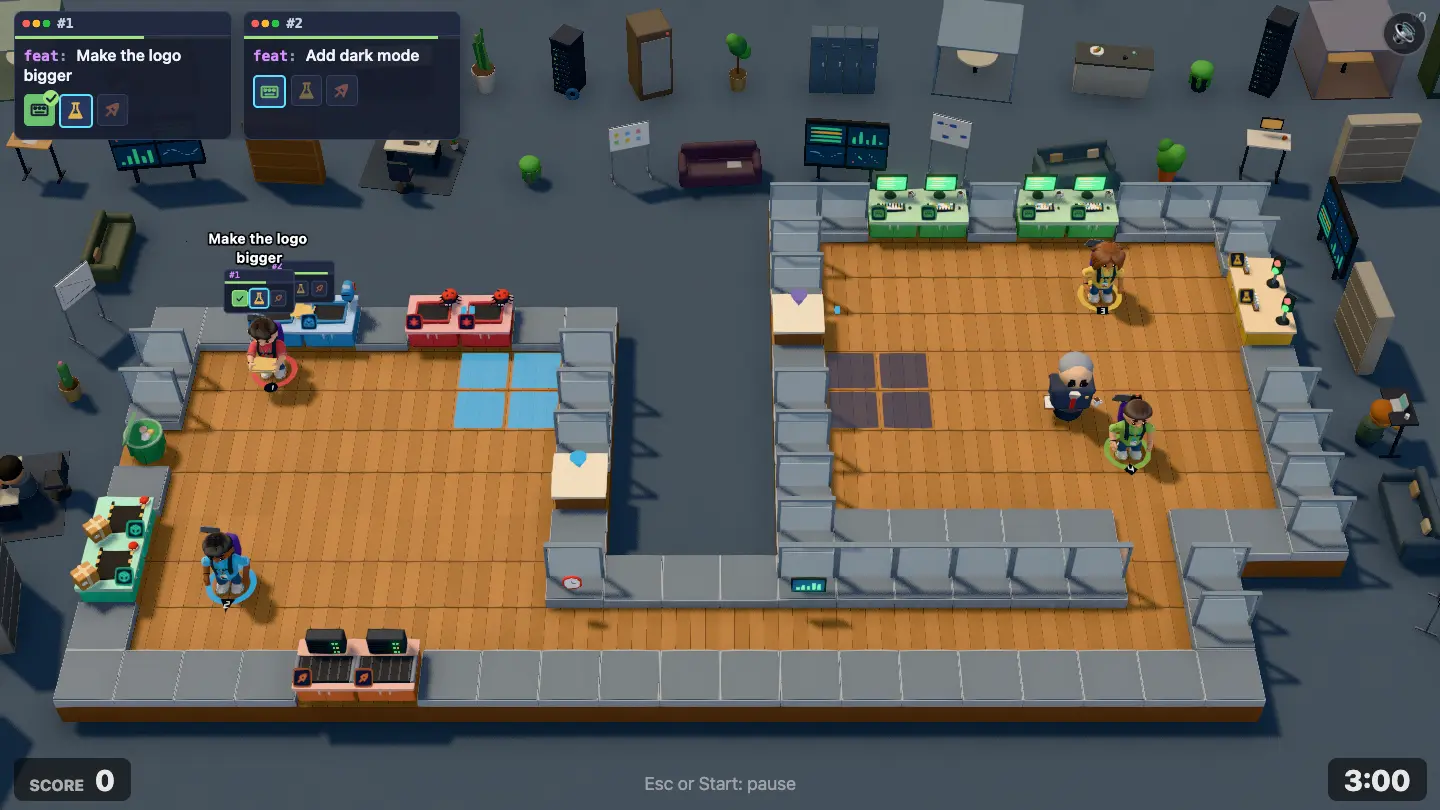
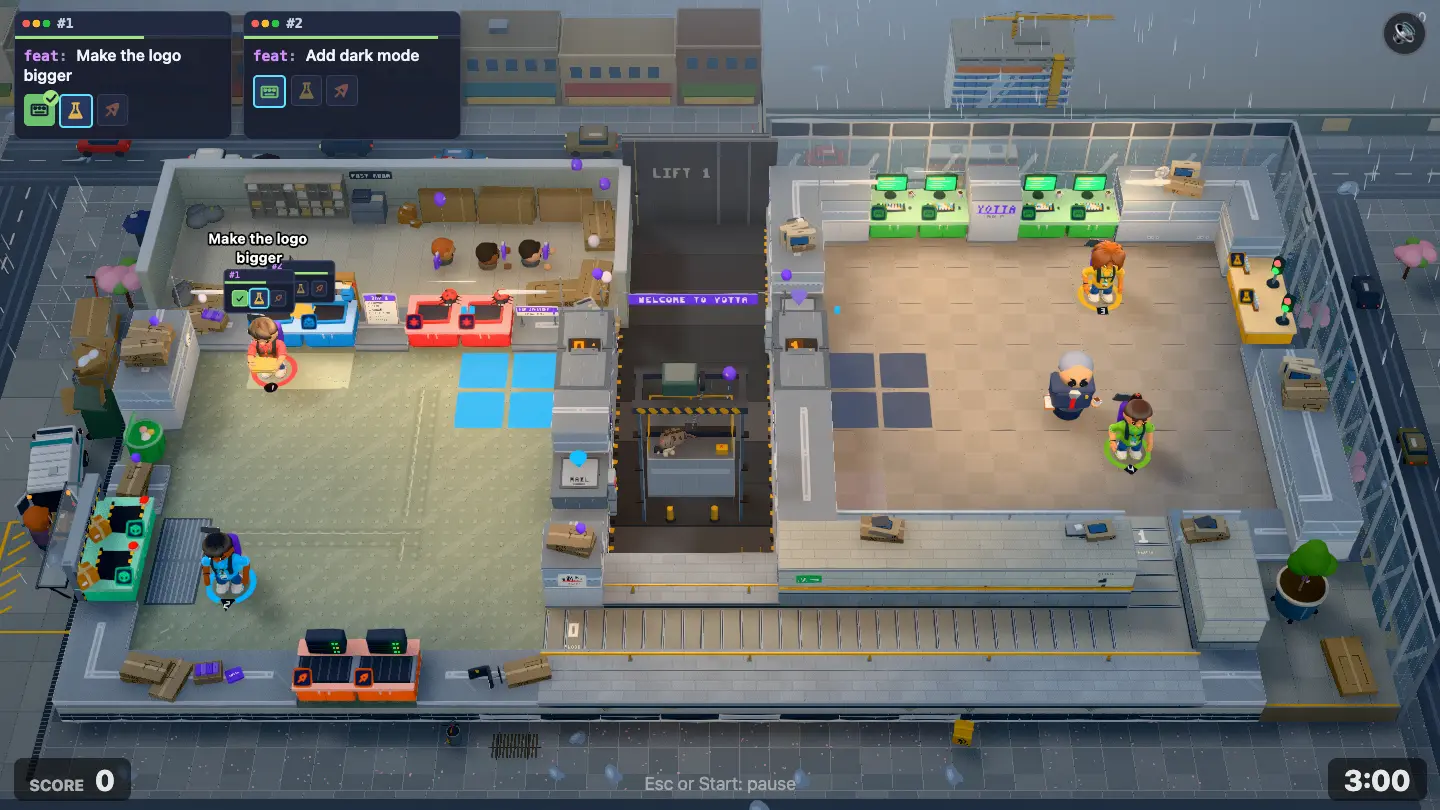
Hypergrowth environment: final shot, before/after, round 2 summary, leftovers and ticked boxes in the brief; storyline entry and running gags updated to what was built

diff --git a/docs/plan/hypergrowth-environment.md b/docs/plan/hypergrowth-environment.md
@@ -1,10 +1,10 @@
 # Hypergrowth environment pass
 
-**Status:** brief written; round 1 next. Level 3-2 (`hypergrowth`, "Hypergrowth"), the second level of the Scale-Up chapter, gets a hand-built world after [Middle Management](middle-management-environment.md) (3-1), in the same building.
+**Status:** two rounds done (build, critic review, fixes). Level 3-2 (`hypergrowth`, "Hypergrowth"), the second level of the Scale-Up chapter, gets a hand-built world after [Middle Management](middle-management-environment.md) (3-1), in the same building.
 
-| Before                                          |
-| ----------------------------------------------- |
-| ![](images/hypergrowth-environment/before.webp) |
+| Before                                          | After                                          |
+| ----------------------------------------------- | ---------------------------------------------- |
+| ![](images/hypergrowth-environment/before.webp) | ![](images/hypergrowth-environment/after.webp) |
 
 **Goal:** the world around the level tells one story, the way Overcooked 2 levels do. Render only (`src/render/`); the sim, maps and balance don't change.
 
@@ -107,12 +107,50 @@ Three agents in one worktree at once, with strict file ownership. The shared plu
 | **World** | `scenes/hypergrowth.ts` (+test), `setDressing/hypergrowth.ts`                                                                                                                                              |
 | **Light** | `atmosphere.ts` (+test), `stage.ts`, `WorldFx.ts`, `createLights` in `look.ts`                                                                                                                             |
 
+## Rounds
+
+Round 1 ran three agents at once (Room, World, Light), with Overcooked 2 shots and our finished 3-1 frame as the bar. The critic scored it **6/10** (before: 3/10; 3-1 about 7). The frame was full, and the open lift shaft (LIFT 1, the car with Segfault on its roof, the WELCOME TO YOTTA banner), the post room with its queue of new starters, the van in the rain and the rain itself all read. What held it back:
+
+- "Upstairs" didn't read: the street outside the first floor sat at the same level and scale as outside the ground floor.
+- The stairwell read as a conveyor belt between two blank grey plateaus.
+- The lift door tops (luminance 169) and some boxes (orange, saturation 0.56) outshone the stations.
+- The grade was flat and grey (saturation 0.217); the rubber floor read as cool as the street.
+- Smaller: the van clipped by the frame edge, a crane tower too small to read "almost done", cotton-candy cherry trees, a dark mat beside the ship that read as a hole, a black ellipse and a floating box in the shaft, thin ground-floor wall tops.
+
+Round 2, in three chunks:
+
+- **Room:** stair treads with risers, steel nosings, a "0" stencil at the foot and a "1" at the top, and a continuous safety-yellow handrail; two-tone coursed block on the stairwell; a glass balustrade upstairs; lift tops 0x7e868d with a big amber floor indicator facing up; cardboard 0x877c6b; low box, welcome-pack and chair clusters on the ground floor's walls; a lighter mat and visible wet tracks from the bay to the lift; the rubber floor 0x828a80.
+- **World:** the street behind and right of the first floor dropped a storey (new optional `Scene.horizonY` and `GroundPatch.y`), with smaller cars, trees and a bus behind the glass, and public steps where the street drops; the van and driver fully in frame, the van's rear turned to the bay; an almost-done tower with two bare top floors, orange netting, a hoist and the crane; wet cherry trees with leaves and trunks; quieter boxes; a clean shaft; WET FLOOR pictograms, puddles and petals out front.
+- **Light:** a warm pool per floor (upstairs brighter), a cooler sky and fog 0x8a96a2, the grade's saturate at 1.65 for this level only, rain down to the lowered street.
+
+Measured on the final shots:
+
+| Measure                                    | Before | Round 1 | Final   |
+| ------------------------------------------ | ------ | ------- | ------- |
+| Frame mean luminance                       | 92.1   | 104.8   | 107.5   |
+| Frame mean luminance, `quality=low`        |        | 105.1   | 108.3   |
+| Frame saturation                           | 0.38   | 0.217   | 0.254   |
+| Ground floor minus street left (luminance) |        | 45      | 60      |
+| Lift door tops                             |        | 169     | 133–139 |
+
+Open Plan's frame differs from its docs shot by 1.15 per channel (animation): unchanged.
+
+Left for later:
+
+- **"Upstairs" reads only moderately.** The façade band under the first floor faces away from this near-top-down camera; the drop shows mostly as a smaller street through the glass.
+- **The stair ramp is beaten by the light.** The treads ramp from dark to light in the data, but on screen the flight reads warm to cool.
+- **The crane tower is still small** (about 65 px above the hoarding) and greyed by the fog.
+- **Small text:** the WET FLOOR pictogram, the onboarding checklist and the DESKS ARRIVING note are only just legible at 1440×810; the chairs in plastic read as a dark lump.
+- **The ship station's mint** is darker than the warm rubber floor round it; it separates by hue, not brightness.
+- **The first-floor carpet is about as bright as the yellow test bench** (157 vs 155); the bench stands out by saturation.
+- The critic did not re-score round 2. Not checked on a real GPU.
+
 ## Done when
 
-- [ ] The shot reads as "a startup's two new floors in the same office building on a rainy day, hiring faster than the desks arrive" without explanation, and nothing in it reads as food or a kitchen.
-- [ ] The storyline beat reads with no explanation: the ground floor full of desk boxes and balloons, the lift between the floors, new starters with welcome packs, the van unloading more desks in the rain.
-- [ ] The outside connects to the play: tickets come in at the post room, ship out of the loading bay; the lift and the chute look like a lift and a chute.
-- [ ] The running gags are in place: the welcome banner over the lift, Prod on the landing, Segfault riding the lift, the crane tower almost done, the onboarding checklist.
-- [ ] No flat empty ground and no void in the 1440×810 frame.
-- [ ] Stations, players, Derek, the lift cabins and the chute hatches read at a glance; nothing hides them.
-- [ ] `npm run check` passes; other levels look as before.
+- [x] The shot reads as "a startup's two new floors in the same office building on a rainy day, hiring faster than the desks arrive" without explanation, and nothing in it reads as food or a kitchen.
+- [x] The storyline beat reads with no explanation: the ground floor full of desk boxes and balloons, the lift between the floors, new starters with welcome packs, the van unloading more desks in the rain.
+- [x] The outside connects to the play: tickets come in at the post room, ship out of the loading bay; the lift and the chute look like a lift and a chute.
+- [x] The running gags are in place: the welcome banner over the lift, Prod on the landing, Segfault riding the lift, the crane tower almost done, the onboarding checklist.
+- [x] No flat empty ground and no void in the 1440×810 frame.
+- [x] Stations, players, Derek, the lift cabins and the chute hatches read at a glance; nothing hides them.
+- [x] `npm run check` passes; other levels look as before.

diff --git a/docs/game/storyline.md b/docs/game/storyline.md
@@ -4,7 +4,7 @@ The campaign tells one story: **YOTTA**, a startup founded by two people in Mom'
 
 This page is canon for level design and environment passes. A level's map, its world, its props and its light should all tell this level's beat. The players never read this page, so **the story has to show in the world**: in the backdrop, the props, the people outside and the signs on the walls.
 
-Where a level already has an environment brief, that brief is the detailed version and wins on details: [garage](../plan/garage-environment.md), [open plan](../plan/open-plan-environment.md), [down the hall](../plan/down-the-hall-environment.md), [seed round](../plan/seed-round-environment.md), [demo day](../plan/demo-day-environment.md), [on call](../plan/on-call-environment.md), [middle management](../plan/middle-management-environment.md). Everything else here is a starting point: change it when a pass finds something funnier, and update this page when you do.
+Where a level already has an environment brief, that brief is the detailed version and wins on details: [garage](../plan/garage-environment.md), [open plan](../plan/open-plan-environment.md), [down the hall](../plan/down-the-hall-environment.md), [seed round](../plan/seed-round-environment.md), [demo day](../plan/demo-day-environment.md), [on call](../plan/on-call-environment.md), [middle management](../plan/middle-management-environment.md), [hypergrowth](../plan/hypergrowth-environment.md). Everything else here is a starting point: change it when a pass finds something funnier, and update this page when you do.
 
 ## The arc in one table
 
@@ -154,9 +154,9 @@ _New: the wandering manager._ YOTTA has money, headcount and a manager. It doesn
 - **Where and when:** two floors of the same building, joined by one tiny lift and a long stairwell. A rainy spring day.
 - **The joke:** they hire faster than the desks arrive. The ground floor is full of unopened desk boxes and welcome balloons, and the lift is always full of new starters with welcome packs.
 - **Mechanic in the story:** the lift, the stairs and a mail chute: work goes up to the developers and comes down to be shipped. Derek rides the lift.
-- **Inbox and ship:** the inbox is the ground-floor post room; the ship hatch is the loading bay out into the rain.
-- **Outside:** rain on the windows, the street with umbrellas, a delivery van unloading more desk boxes, the crane tower almost done.
-- **Running gags:** a YOTTA welcome banner over the lift, Prod on the landing in a bigger pot, Segfault riding the lift, the plan as an onboarding checklist.
+- **Inbox and ship:** the inbox is the ground-floor post room's pass-through (pigeonholes, a franking machine, mail sacks, a queue of new starters with violet welcome totes); the ship hatch is the loading bay's roller shutter out into the rain, where a courier van is unloading more desk boxes.
+- **Outside:** rain, the wet street right outside the ground floor and a storey below the first floor's glass, umbrellas, wet cherry trees, the courier van at the loading bay, and across the street the crane tower almost done: two bare top floors in orange netting, the crane still on the roof. Between the floors, the open lift shaft.
+- **Running gags:** a violet WELCOME TO YOTTA banner strung across the top of the lift shaft, Prod on the stair landing in a bigger pot, Segfault asleep on the roof of the lift car in the shaft, the plan as an onboarding checklist (DAY 1 ticks, then `1. Build it`, `2. ???`, `3. Profit`) by the post room hatch.
 - **Level design hooks:** two floors side by side as islands; the solo player waits for the lift or takes the stairs.
 - **How it ends:** there are more people than desks. Someone suggests hot desking.
 
@@ -269,7 +269,7 @@ A quick lookup for set dressing. "—" means it's not in that level.
 | 2-2   | LED pitch slide            | on a stage monitor  | reserved seat        | front row, RESERVED         | scout taking notes      | —                 |
 | 2-3   | sticker on a cage rack     | by the storage cage | warmest server       | —                           | —                       | —                 |
 | 3-1   | vinyl beside reception     | reception           | Derek's chair        | —                           | Derek's old lanyard     | half-clad         |
-| 3-2   | welcome banner             | landing             | riding the lift      | —                           | —                       | almost done       |
+| 3-2   | banner over the lift shaft | stair landing       | on the lift car roof | —                           | —                       | almost done       |
 | 3-3   | on the lockers             | unbookable desk     | empty locker         | —                           | —                       | finished, TO LET  |
 | 4-1   | steel letters in the lobby | corridor planter    | boardroom table      | meeting room; visitor bay   | level with them         | they're inside it |
 | 4-2   | side by side with MONOLITH | sticky-note parking | flip chart           | —                           | executives visiting     | —                 |
